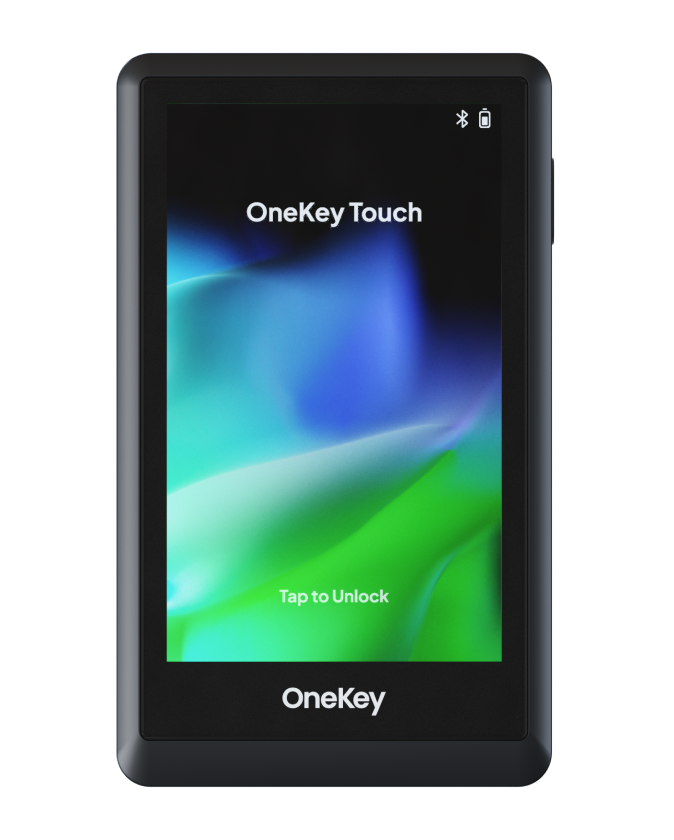
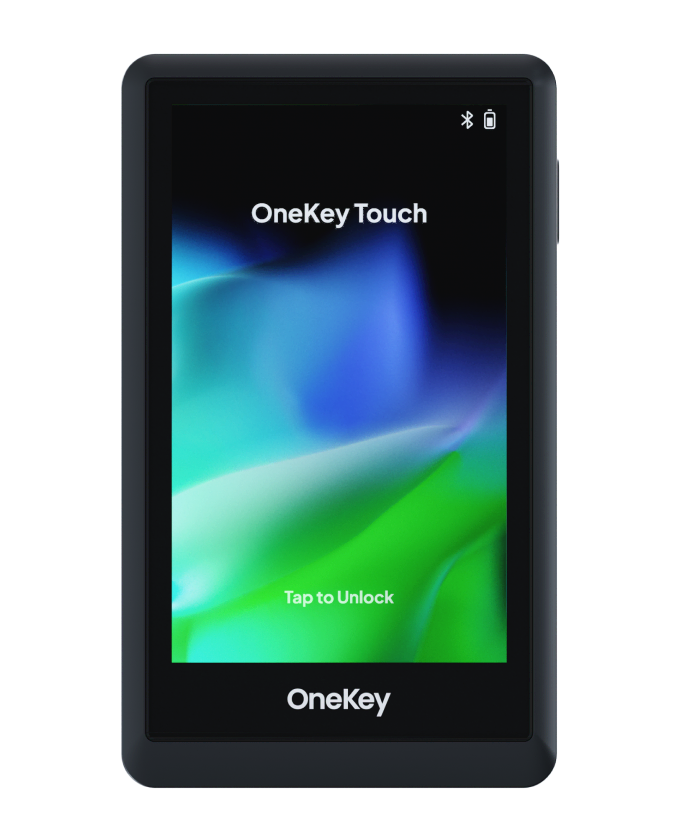
feat: update images (#221)
* feat: update hover images

* fix: image hover style

* feat: update navigation images

* feat: update security images

* feat: update mini-gallery images

* feat: update responsive images

* feat: update touch gallery images

* feat: update touch information images

* feat: update touch information images

* feat: update recommand section images

* feat: update shop images

diff --git a/src/components/pages/products/OneKeyTouch/useImageIntroductionData/useImageIntroductionData.tsx b/src/components/pages/products/OneKeyTouch/useImageIntroductionData/useImageIntroductionData.tsx
@@ -14,8 +14,18 @@ export function useImageIntroductionData() {
       name: splitMultiline(name1),
       description: t('title__touch_it_feel_it_desc'),
       images: {
-        s: <StaticImage src="./images/small/touch-hardware0.jpg" alt={name1} />,
-        m: <StaticImage src="./images/large/touch-hardware0.jpg" alt={name1} />,
+        s: (
+          <StaticImage
+            src="./images/small/touch-information-mobile-01.jpg"
+            alt={name1}
+          />
+        ),
+        m: (
+          <StaticImage
+            src="./images/large/touch-information-tablet-01.jpg"
+            alt={name1}
+          />
+        ),
       },
       frames: [
         ...new Array(70)
@@ -33,8 +43,18 @@ export function useImageIntroductionData() {
       name: name2,
       description: t('title__carry_on_desc'),
       images: {
-        s: <StaticImage src="./images/small/touch-hardware1.jpg" alt={name2} />,
-        m: <StaticImage src="./images/large/touch-hardware1.jpg" alt={name2} />,
+        s: (
+          <StaticImage
+            src="./images/small/touch-information-mobile-02.jpg"
+            alt={name2}
+          />
+        ),
+        m: (
+          <StaticImage
+            src="./images/large/touch-information-tablet-02.jpg"
+            alt={name2}
+          />
+        ),
       },
       frames: [
         ...new Array(60)
@@ -52,8 +72,18 @@ export function useImageIntroductionData() {
       name: splitMultiline(name3),
       description: t('title__one_platform_manage_all_desc'),
       images: {
-        s: <StaticImage src="./images/small/touch-hardware2.jpg" alt={name3} />,
-        m: <StaticImage src="./images/large/touch-hardware2.jpg" alt={name3} />,
+        s: (
+          <StaticImage
+            src="./images/small/touch-information-mobile-03.jpg"
+            alt={name3}
+          />
+        ),
+        m: (
+          <StaticImage
+            src="./images/large/touch-information-tablet-03.jpg"
+            alt={name3}
+          />
+        ),
       },
       frames: [
         ...new Array(60)

diff --git a/src/components/pages/products/OneKeyMini/useImageIntroductionData/useImageIntroductionData.tsx b/src/components/pages/products/OneKeyMini/useImageIntroductionData/useImageIntroductionData.tsx
@@ -15,8 +15,18 @@ export function useImageIntroductionData() {
       description: t('title__mini_sized_desc'),
       textColor: 'black',
       images: {
-        s: <StaticImage src="./images/s/hardware0.jpg" alt={name1} />,
-        m: <StaticImage src="./images/m/hardware0.jpg" alt={name1} />,
+        s: (
+          <StaticImage
+            src="./images/s/mini-information-mobile-01.jpg"
+            alt={name1}
+          />
+        ),
+        m: (
+          <StaticImage
+            src="./images/m/mini-information-tablet-01.jpg"
+            alt={name1}
+          />
+        ),
       },
       frames: [
         ...new Array(60)
@@ -35,8 +45,18 @@ export function useImageIntroductionData() {
       description: t('title__security_built_right_in_desc'),
       textColor: 'black',
       images: {
-        s: <StaticImage src="./images/s/hardware1.jpg" alt={name2} />,
-        m: <StaticImage src="./images/m/hardware1.jpg" alt={name2} />,
+        s: (
+          <StaticImage
+            src="./images/s/mini-information-mobile-02.jpg"
+            alt={name2}
+          />
+        ),
+        m: (
+          <StaticImage
+            src="./images/m/mini-information-tablet-02.jpg"
+            alt={name2}
+          />
+        ),
       },
       frames: [
         ...new Array(60)
@@ -54,8 +74,18 @@ export function useImageIntroductionData() {
       name: splitMultiline(name3),
       description: t('title__onekey_platform_desc'),
       images: {
-        s: <StaticImage src="./images/s/hardware2.jpg" alt={name3} />,
-        m: <StaticImage src="./images/m/hardware2.jpg" alt={name3} />,
+        s: (
+          <StaticImage
+            src="./images/s/mini-information-mobile-03.jpg"
+            alt={name3}
+          />
+        ),
+        m: (
+          <StaticImage
+            src="./images/m/mini-information-tablet-03.jpg"
+            alt={name3}
+          />
+        ),
       },
       textColor: 'black',
       frames: [

diff --git a/src/components/pages/Home/components/Hardware/Item.tsx b/src/components/pages/Home/components/Hardware/Item.tsx
@@ -47,19 +47,31 @@ export const Item: FC<ItemProps> = (props) => {
         >
           <Box
             xs={{
+              position: 'relative',
               margin: '0 auto',
               width: '100%',
               height: 384,
               maxWidth: 310,
-              backgroundImage: `url(${image})`,
-              backgroundSize: 'auto 100%',
-              backgroundRepeat: 'no-repeat',
-              backgroundPosition: 'center',
             }}
           >
+            <Box
+              xs={{
+                position: 'relative',
+                width: '100%',
+                height: '100%',
+                backgroundImage: `url(${image})`,
+                backgroundSize: 'auto 100%',
+                backgroundRepeat: 'no-repeat',
+                backgroundPosition: 'center',
+                opacity: showProductImage ? 0 : 1,
+                transition: theme.transitions.allEaseOut,
+              }}
+            />
             {hoverImage && (
               <Box
                 xs={{
+                  position: 'absolute',
+                  top: 0,
                   width: '100%',
                   height: '100%',
                   backgroundImage: `url(${hoverImage})`,

diff --git a/src/components/pages/Shop/components/Products/Cards/useProductsData.tsx b/src/components/pages/Shop/components/Products/Cards/useProductsData.tsx
@@ -22,7 +22,7 @@ export function useProductsData() {
     image: (
       <StaticImage
         style={{ width: '100%', height: 'auto' }}
-        src="./images/mini.png"
+        src="./images/shop-product-card-mini.png"
         alt="mini"
       />
     ),
@@ -33,14 +33,14 @@ export function useProductsData() {
     image: (
       <StaticImage
         style={{ width: '100%', height: 'auto' }}
-        src="./images/touch.png"
+        src="./images/shop-product-card-touch.png"
         alt="touch"
       />
     ),
     bigImage: (
       <StaticImage
         style={{ width: '100%', height: 'auto' }}
-        src="./images/touchBig.png"
+        src="./images/shop-product-card-touchBig.png"
         alt="touch"
       />
     ),
@@ -51,7 +51,7 @@ export function useProductsData() {
     image: (
       <StaticImage
         style={{ width: '100%', height: 'auto' }}
-        src="./images/lite.png"
+        src="./images/shop-product-card-lite.png"
         alt="lite"
       />
     ),

diff --git a/src/components/pages/Shop/components/ProductCompare/useProductCompareData/useProductCompareData.tsx b/src/components/pages/Shop/components/ProductCompare/useProductCompareData/useProductCompareData.tsx
@@ -38,7 +38,7 @@ export function useProductCompareData(): {
   return {
     items: {
       mini: {
-        image: <StaticImage src="./images/mini.png" alt="mini" />,
+        image: <StaticImage src="./images/shop-compare-mini.png" alt="mini" />,
         name: product.mini.name,
         price: product.mini.formattedPrice,
         productDetailUrl: product.mini.path,
@@ -75,7 +75,9 @@ export function useProductCompareData(): {
         ],
       },
       touch: {
-        image: <StaticImage src="./images/touch.png" alt="touch" />,
+        image: (
+          <StaticImage src="./images/shop-compare-touch.png" alt="touch" />
+        ),
         name: product.touch.name,
         price: product.touch.formattedPrice,
         productDetailUrl: product.touch.path,

diff --git a/src/components/pages/Shop/components/Hero/Hero.tsx b/src/components/pages/Shop/components/Hero/Hero.tsx
@@ -25,7 +25,7 @@ export const Hero: FC<HeroProps> = (props) => {
       <HeroMobileBackground>
         <StaticImage
           style={{ height: '100%', width: '100%' }}
-          src="./images/mobileHero.jpg"
+          src="./images/shop-mobile-hero.jpg"
           alt="hero"
         />
       </HeroMobileBackground>
@@ -33,7 +33,7 @@ export const Hero: FC<HeroProps> = (props) => {
       <HeroTabletBackground>
         <StaticImage
           style={{ height: '100%', width: '100%' }}
-          src="./images/tabletHero.jpg"
+          src="./images/shop-tablet-hero.jpg"
           alt="hero"
         />
       </HeroTabletBackground>

diff --git a/src/components/pages/products/OneKeyMini/useProductInformationData/useProductInformationData.tsx b/src/components/pages/products/OneKeyMini/useProductInformationData/useProductInformationData.tsx
@@ -26,10 +26,6 @@ export function useProductInformationData(): ProductInformationProps {
     shopProductId: '41169098178722',
     gallery: [
       {
-        key: 'mini-gallery-00',
-        node: <StaticImage alt="0" src="./images/mini-gallery-00.png" />,
-      },
-      {
         key: 'mini-gallery-01',
         node: <StaticImage alt="1" src="./images/mini-gallery-01.png" />,
       },

diff --git a/src/components/pages/products/components/RecommendSection/ProductCard.tsx b/src/components/pages/products/components/RecommendSection/ProductCard.tsx
@@ -38,6 +38,8 @@ export const ProductCard: FC<ProductCardProps> = (props) => {
                 xs={{
                   width: 'auto',
                   height: 220,
+                  opacity: data.status === 'normal' && isHovered ? 0 : 1,
+                  transition: theme.transitions.allCubicBezier,
                 }}
                 m={{
                   height: 320,
